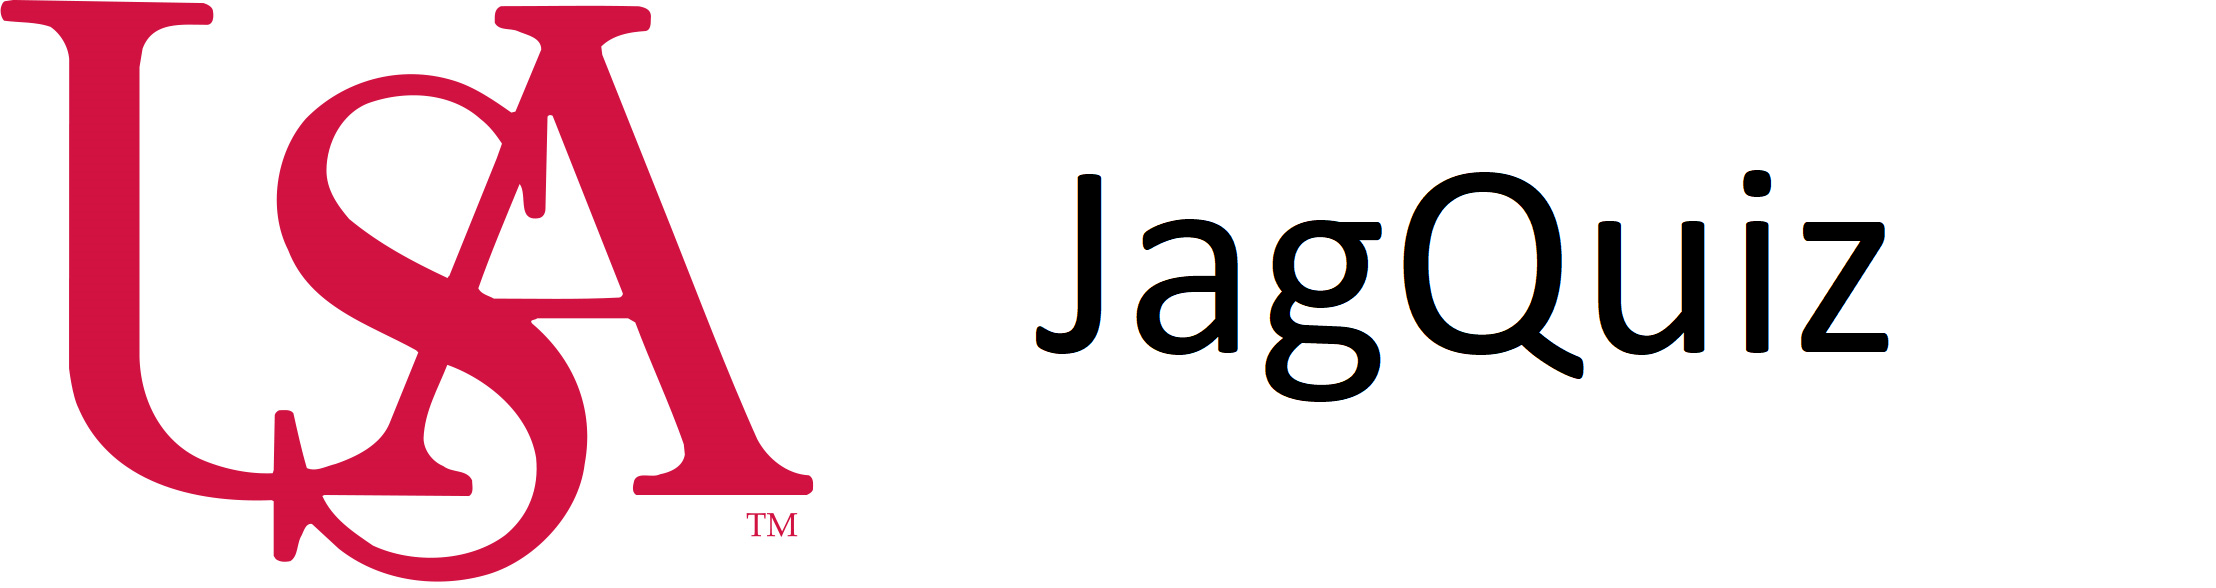
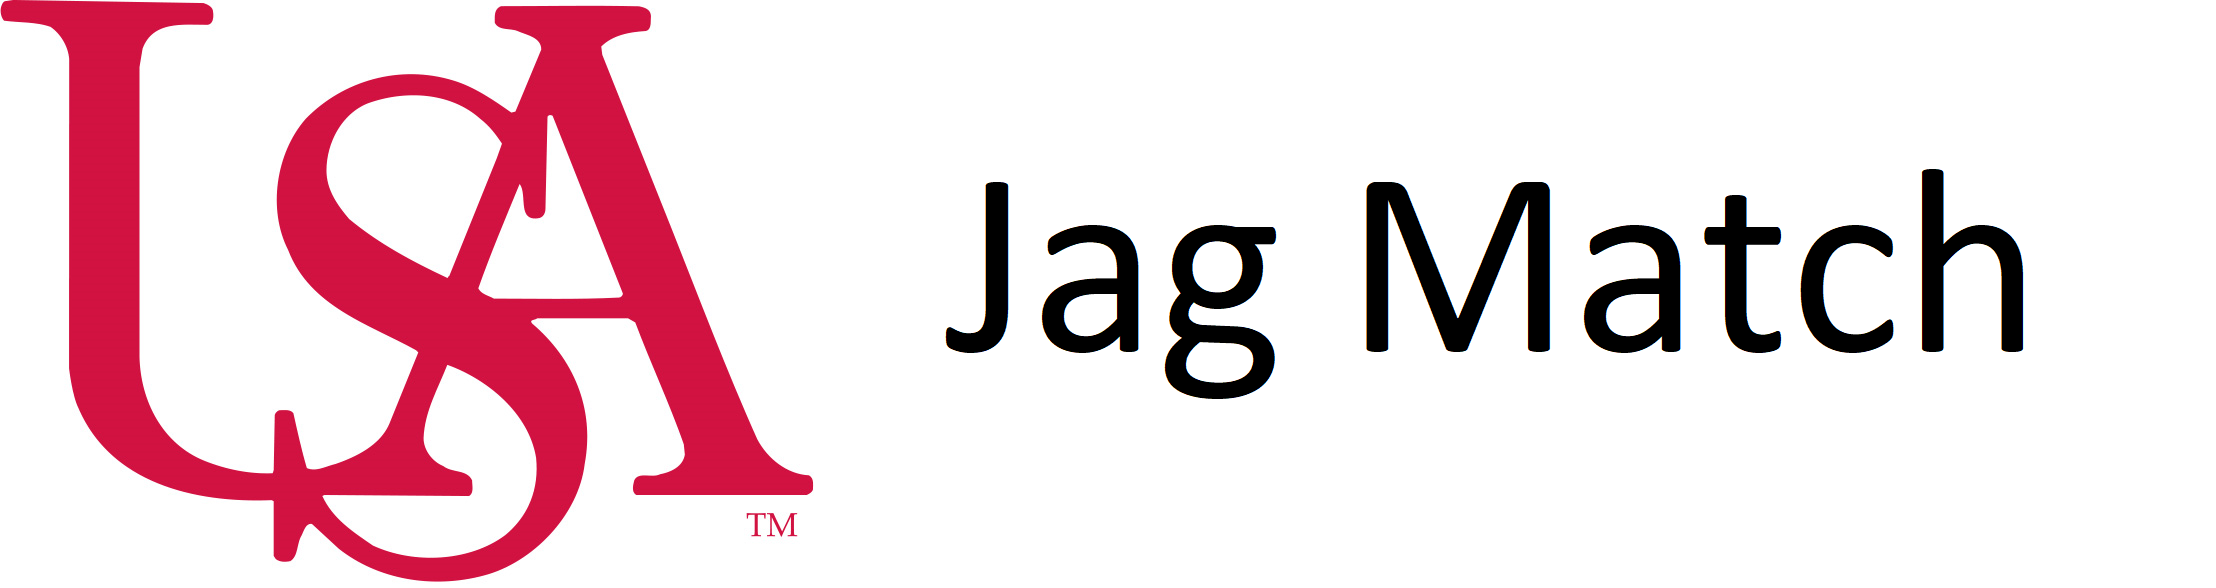
2

Changed region(s): [[0.4048, 0.2755, 0.9341, 0.7041]]

diff --git a/CSC497_Project_JagQuiz/Controllers/ExerciseController.cs b/CSC497_Project_JagQuiz/Controllers/ExerciseController.cs
@@ -6,10 +6,22 @@ using System.Web.Mvc;
 
 namespace CSC497_Project_JagQuiz.Controllers
 {
+    [Authorize]
     public class ExerciseController : Controller
-    {
+    {   
+        
         // GET: Exercise
         public ActionResult Index()
+        {
+            return View();
+        }
+
+        public ActionResult CreateMatch()
+        {
+            return View();
+        }
+
+        public ActionResult Match()
         {
             return View();
         }

diff --git a/CSC497_Project_JagQuiz/Controllers/HomeController.cs b/CSC497_Project_JagQuiz/Controllers/HomeController.cs
@@ -6,11 +6,13 @@ using System.Web.Mvc;
 
 namespace CSC497_Project_JagQuiz.Controllers
 {
+    
     public class HomeController : Controller
     {
+        
         public ActionResult Index()
         {
-            ViewBag.Title = "JagQuiz Home";
+            ViewBag.Title = "JagMatch Home";
             return View();
         }
 
